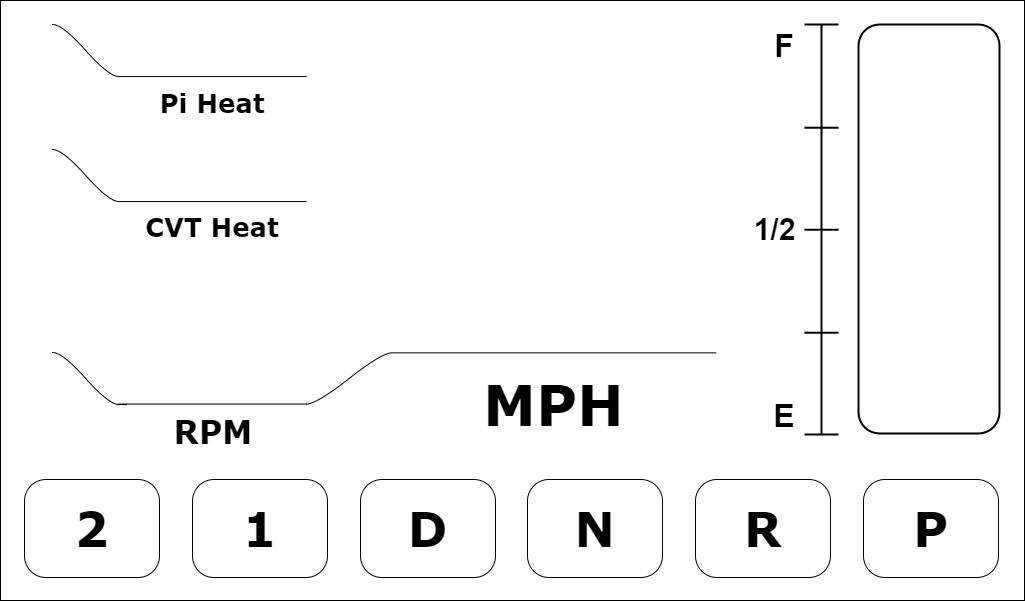
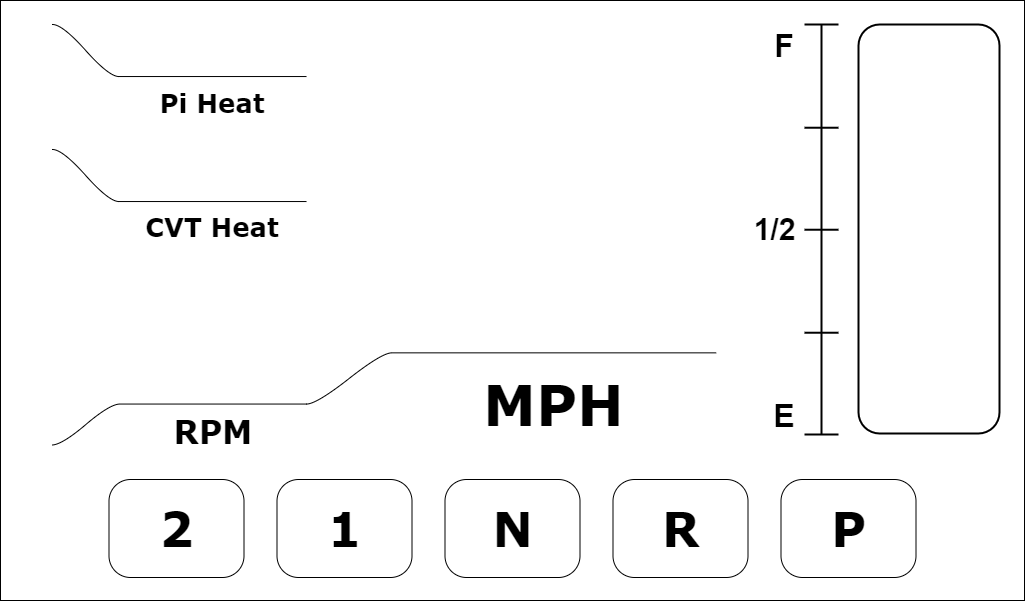
Added EngineRPM Data and Corrected Gear Positions

diff --git a/app/src/Modules/GPIO/GearShifter.cpp b/app/src/Modules/GPIO/GearShifter.cpp
@@ -1,50 +1,73 @@
 #include "GearShifter.hpp"
+
 #include "Core/SharedData.hpp"
-#include <wiringPi.h>
+
+#ifdef RPI_PI
+
+    #include <wiringPi.h>
+
+#endif
 
 namespace BB {
 
-    GearShifter::GearShifter(SharedData* data, Physical reverse, Physical drive, Physical neutral) :
+    GearShifter::GearShifter(SharedData* data, Physical park, Physical neutral, Physical gear1, Physical gear2) :
         Module(data),
-        m_reverse(reverse),
-        m_drive(drive),
-        m_neutral(neutral)
+        m_Park(park),
+        m_Neutral(neutral),
+        m_1(gear1),
+        m_2(gear2)
     {
-        this->p_Data->RegisterPin(m_reverse);
-        this->p_Data->RegisterPin(m_drive);
-        this->p_Data->RegisterPin(m_neutral);
+        this->p_Data->RegisterPin(this->m_Park);
+        this->p_Data->RegisterPin(this->m_Neutral);
+        this->p_Data->RegisterPin(this->m_1);
+        this->p_Data->RegisterPin(this->m_2);
     }
 
     GearShifter::~GearShifter()
     {
-        this->p_Data->UnregisterPin(m_reverse);
-        this->p_Data->UnregisterPin(m_drive);
-        this->p_Data->UnregisterPin(m_neutral);
+        this->p_Data->UnregisterPin(this->m_Park);
+        this->p_Data->UnregisterPin(this->m_Neutral);
+        this->p_Data->UnregisterPin(this->m_1);
+        this->p_Data->UnregisterPin(this->m_2);
     }
 
     void GearShifter::Init() {
-        pinMode(m_reverse, INPUT);
-        pinMode(m_drive,INPUT);
-        pinMode(m_neutral, INPUT);
+    #ifdef RPI_PI
+
+        pinMode(this->m_Park, INPUT);
+        pinMode(this->m_Neutral, INPUT);
+        pinMode(this->m_1,INPUT);
+        pinMode(this->m_2,INPUT);
+
+    #endif
     }
 
     void GearShifter::Shutdown() {
-        pinMode(m_reverse, PM_OFF);
-        pinMode(m_drive, PM_OFF);
-        pinMode(m_neutral, PM_OFF);
+    #ifdef RPI_PI
+
+        pinMode(this->m_Park, PM_OFF);
+        pinMode(this->m_Neutral, PM_OFF);
+        pinMode(this->m_1, PM_OFF);
+        pinMode(this->m_2, PM_OFF);
+
+    #endif
     }
 
     void GearShifter::Update() {
+    #ifdef RPI_PI
 
-        if(digitalRead(m_reverse)){
-            this->p_Data->gearPosition = REVERSE;
-        }else if(digitalRead(m_drive)){
-            this->p_Data->gearPosition = DRIVE;
-        }else if(digitalRead(m_neutral)){
-            this->p_Data->gearPosition = NEUTRAL;
-        }else{
-            this->p_Data->gearPosition = PARK;
-        } 
+        if(digitalRead(this->m_Park))
+            this->p_Data->gearPosition = GearPosition::PARK;
+        else if(digitalRead(this->m_Neutral))
+            this->p_Data->gearPosition = GearPosition::NEUTRAL;
+        else if(digitalRead(this->m_1))
+            this->p_Data->gearPosition = GearPosition::ONE;
+        else if(digitalRead(this->m_2))
+            this->p_Data->gearPosition = GearPosition::TWO;
+        else
+            this->p_Data->gearPosition = GearPosition::REVERSE;
+
+    #endif
     }
 
 } // namespace BB

diff --git a/app/src/Modules/GUI/GUIModule.cpp b/app/src/Modules/GUI/GUIModule.cpp
@@ -54,13 +54,9 @@ namespace BB {
                 ref->data->gearPosition = REVERSE;
             }
         }
-        
+
         if (key == GLFW_KEY_P && action == GLFW_PRESS){
             ref->data->gearPosition = PARK;
-        }
-
-        if (key == GLFW_KEY_D && action == GLFW_PRESS){
-            ref->data->gearPosition = DRIVE;
         }
 
         if (key == GLFW_KEY_1 && action == GLFW_PRESS){
@@ -275,10 +271,6 @@ namespace BB {
                 gearShiftPos.x -= 37.0f * 2.0f;
                 break;
 
-            case DRIVE:
-                gearShiftPos.x -= 38.0f * 3.0f;
-                break;
-
             case ONE:
                 gearShiftPos.x -= 36.0f * 4.0f;
                 break;
@@ -378,14 +370,13 @@ namespace BB {
         // Highlight the active gear, this thankfully is just adjusting the x coordinate
         // of the highlighter to align with the current gear.
         //
-        glm::vec2 gearShiftPos = { 863.0f, 479.0f };
+        glm::vec2 gearShiftPos = { 780.5f, 479.0f };
         switch (this->p_Data->gearPosition) {
             case PARK:       break;
-            case REVERSE:    gearShiftPos.x = 695.0f; break;
-            case NEUTRAL:    gearShiftPos.x = 527.0f; break;
-            case DRIVE:      gearShiftPos.x = 360.0f; break;
-            case ONE:        gearShiftPos.x = 192.0f; break;
-            case TWO:        gearShiftPos.x = 24.0f;  break;
+            case REVERSE:    gearShiftPos.x = 612.5f; break;
+            case NEUTRAL:    gearShiftPos.x = 444.5f; break;
+            case ONE:        gearShiftPos.x = 276.5f; break;
+            case TWO:        gearShiftPos.x = 108.5f;  break;
         }
 
         this->p_Renderer->DrawSprite(
@@ -405,12 +396,16 @@ namespace BB {
         if (this->p_Data->milesPerHour < 10)
             mphModifier = 40.0f;
 
+        glm::vec3 mphColor = { 0.0f, 0.0f, 0.0f };
+        if (this->p_Data->gearPosition == GearPosition::REVERSE)
+            mphColor.r = mphColor.b = 1.0f;
+
         this->p_Renderer->DrawText(
             ss.str(),
             ResourceManager::GetFont("ComicNeue"),
             { 460.0f + mphModifier, 180.0f },
             3.5f,
-            { 0.0f, 0.0f, 0.0f }
+            mphColor
         );
 
         if (this->p_Data->gearPosition != GearPosition::REVERSE) {

diff --git a/app/src/Modules/GPIO/EngineRPM.cpp b/app/src/Modules/GPIO/EngineRPM.cpp
@@ -1,5 +1,13 @@
 #include "EngineRPM.hpp"
-#include <wiringPi.h>
+
+// std
+#include <chrono>
+
+#ifdef RPI_PI
+
+    #include <wiringPi.h>
+
+#endif
 
 namespace BB {
 
@@ -23,6 +31,8 @@ namespace BB {
         wiringPiISR(this->m_DataPin, INT_EDGE_RISING, &EngineRPM::EnginePulse);
 
     #endif
+
+        this->m_PrevTime = std::chrono::steady_clock::now();
     }
 
     void EngineRPM::Shutdown() {
@@ -35,8 +45,24 @@ namespace BB {
     #endif
     }
 
+    #define TIRE_DIAMETER 20.0f // In inches
+    #define GEAR_RATIO    31.0f
+
     void EngineRPM::Update() {
-        // TODO
+        std::chrono::steady_clock::time_point now = std::chrono::steady_clock::now();
+        std::chrono::duration<double> elapsed = now - this->m_PrevTime;
+
+        if (elapsed.count() >= 1.0f) {
+            this->m_PrevTime = now;
+
+            this->p_Data->engineRPM = static_cast<float>(s_Pulse) * 60.0f;
+
+            s_Pulse = 0;
+
+            // This supposedly is a correct conversion.
+            // 
+            this->p_Data->milesPerHour = (this->p_Data->engineRPM * TIRE_DIAMETER) / (GEAR_RATIO * 336);
+        }
     }
 
     void EngineRPM::EnginePulse() {

diff --git a/app/src/Modules/GPIO/GearShifter.hpp b/app/src/Modules/GPIO/GearShifter.hpp
@@ -8,7 +8,7 @@ namespace BB {
 
     class GearShifter : public Module {
     public:
-        GearShifter(SharedData* data, Physical reverse, Physical drive, Physical neutral);
+        GearShifter(SharedData* data, Physical park, Physical neutral, Physical gear1, Physical gear2);
         ~GearShifter();
 
         virtual void Init() override;
@@ -18,9 +18,10 @@ namespace BB {
 
     private:
 
-        const Physical m_reverse;
-        const Physical m_drive;
-        const Physical m_neutral;
+        const Physical m_Park;
+        const Physical m_Neutral;
+        const Physical m_1;
+        const Physical m_2;
 
     };
 

diff --git a/app/src/Modules/GPIO/FanControl.cpp b/app/src/Modules/GPIO/FanControl.cpp
@@ -74,8 +74,6 @@ namespace BB {
         if (s_Counter++ >= 1'000) {
             this->p_Data->pi_Heat = GetTemp();
 
-            std::cout << "Current Pi Temp: " << this->p_Data->pi_Heat << std::endl;
-
             if (this->p_Data->pi_Heat >= MAX_PI_TEMP)
                 SetSpeed(1.0f);
             else if (this->p_Data->pi_Heat >= MIN_PI_TEMP)
@@ -106,8 +104,6 @@ namespace BB {
     }
 
     void FanControl::SetSpeed(float speed) {
-        std::cout << "Setting Fan to " << speed * 100.0f << std::endl;
-
         speed = speed * PWM_RANGE;
 
     #ifdef RPI_PI

diff --git a/app/src/Core/Application.cpp b/app/src/Core/Application.cpp
@@ -6,7 +6,6 @@
 #include "Modules/GPIO/FanControl.hpp"
 #include "Modules/GPIO/FuelFlow.hpp"
 #include "Modules/GPIO/GearShifter.hpp"
-#include "Modules/GPIO/TempProbe.hpp"
 
 #include "Modules/GUI/GUIModule.hpp"
 
@@ -87,7 +86,8 @@ namespace BB {
             this->p_SharedData,
             Physical::PIN_29,
             Physical::PIN_31,
-            Physical::PIN_33
+            Physical::PIN_33,
+            Physical::PIN_35
         ))->Init();
 
         this->m_Modules.emplace_back(new FanControl(

diff --git a/app/src/Modules/GPIO/EngineRPM.hpp b/app/src/Modules/GPIO/EngineRPM.hpp
@@ -4,6 +4,9 @@
 
 #include "Modules/Module.hpp"
 
+// std
+#include <chrono>
+
 namespace BB {
 
     class EngineRPM : public Module {
@@ -21,6 +24,8 @@ namespace BB {
 
     private:
         const Physical m_DataPin;
+
+        std::chrono::steady_clock::time_point m_PrevTime;
 
         static inline unsigned int s_Pulse = 0;
 

diff --git a/app/src/Core/SharedData.hpp b/app/src/Core/SharedData.hpp
@@ -6,7 +6,6 @@
 
 #include <iostream>
 #include <set>
-#include <vector>
 
 namespace BB {
 
@@ -15,7 +14,6 @@ namespace BB {
 
         REVERSE = 1,
         NEUTRAL = 2,
-        DRIVE = 3,
 
         ONE = 4,
         TWO = 5,
